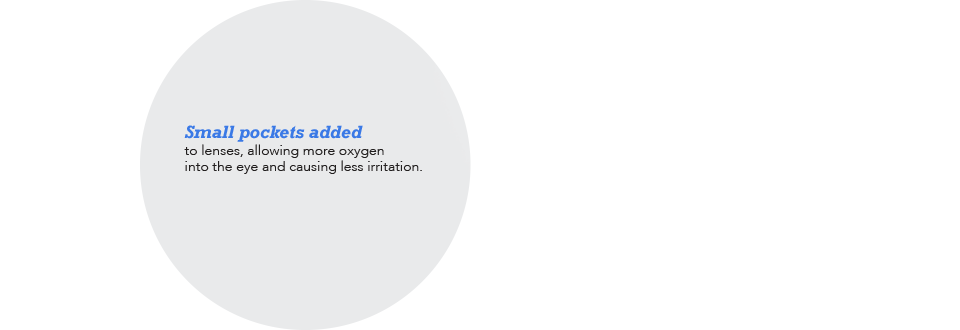
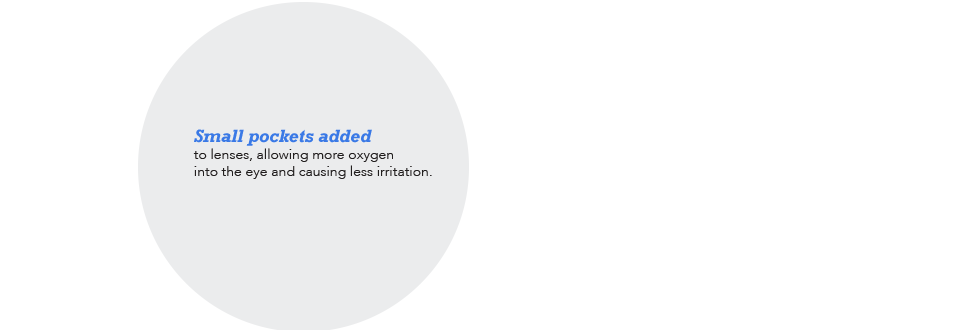
images

Changed region(s): [[0.1875, 0.3636, 0.4688, 0.5455]]

diff --git a/index.html b/index.html
@@ -59,12 +59,12 @@ h2 {text-align: center; font-size: larger; margin-bottom: 0; margin-top: 0}
 	h1.letter1 {text-align: center; font-size:1250px; margin-bottom:100px; margin-top:100px;}
 	h1.letter2 {text-align: center; font-size: 350px; margin-bottom:auto; margin-top:100px;}
 	h1.letter3 {text-align: center; font-size:150px; margin-bottom:100px; margin-top:100px;}
-	h1.letter4 {text-align: justify; width:700px; text-indent: 100px;  font-size: 30px; margin-bottom: 0; margin-top:0;}
+	h1.letter4 {text-align: justify; width:700px; text-indent: 100px;  font-size: 30px; margin-bottom: 0; margin-top:0; padding-top:100px;}
 	h1.letter5 {text-align: center; font-size:500px; margin-bottom: auto; margin-top:auto;}
 	h3.datenumber {text-align:center; font-size:40px; padding-bottom:0; margin-bottom: 0; margin-top: 0px;}
 	h3.daterule {text-align:center; font-size:80px; line-height:60px; margin-bottom: 0; margin-top:0px;}
 	h3.datespelled {text-align:center; text-justify:inter-word; font-size:18px; margin-top:25px;}
-    #preintro {padding-top: 400px; padding-left:400px;}
+    #preintro {padding-top: 400px; padding-left:406px;}
     #section1 {padding-left: 145px;}
     #section1a {padding-left: 145px;}
     #section3 {color: #636363;}
@@ -95,7 +95,7 @@ h2 {text-align: center; font-size: larger; margin-bottom: 0; margin-top: 0}
     #section8 {color: #C2C2C2;}
     #section9 {color: #D3D3D3;}
     #section10 {color: #DEDEDE;} 
-    #section11 {color: #F5F5F5;}
+    #section11 {color: #F5F5F5; padding-bottom: 100px;}
 </style>
 </head>
 <body class="index" style="">
@@ -103,8 +103,6 @@ h2 {text-align: center; font-size: larger; margin-bottom: 0; margin-top: 0}
     <div class="m-nav-toc">
         <ol class="m-toc" id="toc&gt;
             &lt;li id=" datenav"="">
-                <a href="#fixedimage">About</a>
-            
             <li id="toc-section-about" class="">
                 <a href="#section1">The Future</a>
             </li>

diff --git a/bootstrap.css b/bootstrap.css
@@ -1196,6 +1196,7 @@ a.optics1, a.optics2 {
     height: 60px;
     width: 60px;
     background-repeat: no-repeat;
+    display:block;
 }
 .optics1 {
     position: absolute;
@@ -1203,16 +1204,20 @@ a.optics1, a.optics2 {
     left: 120px;
 }
 .optics2 {
-     position: absolute;
-    top: 160px;
+    position: absolute;
+    top: 180px;
     right: 250px;
 }
 
 a.symbol1 {
     background-image: url('images/comfort.png');
+    top: 65px;
+    left: 120px;
 }
 a.symbol1:hover {
     background-image: url('images/comforticon.png');
+     top: 60px;
+    left: 120px;
 }
 
 a.symbol2 {
@@ -1220,6 +1225,7 @@ a.symbol2 {
 }
 a.symbol2:hover {
     background-image: url('images/salesup.png');
+      background-position: 100% 60px -25px -25px;
 }
 
 a.symbol3 {
